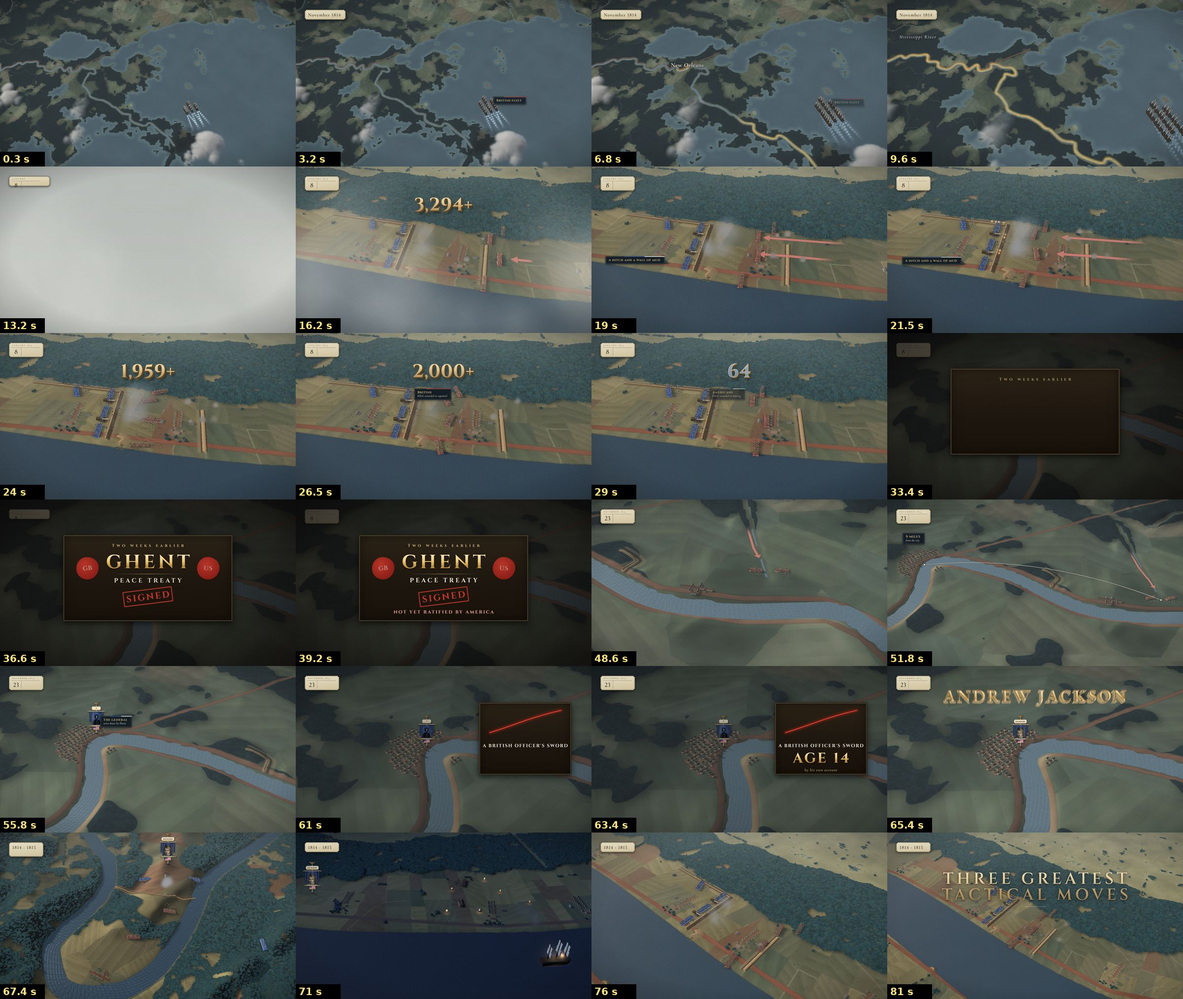
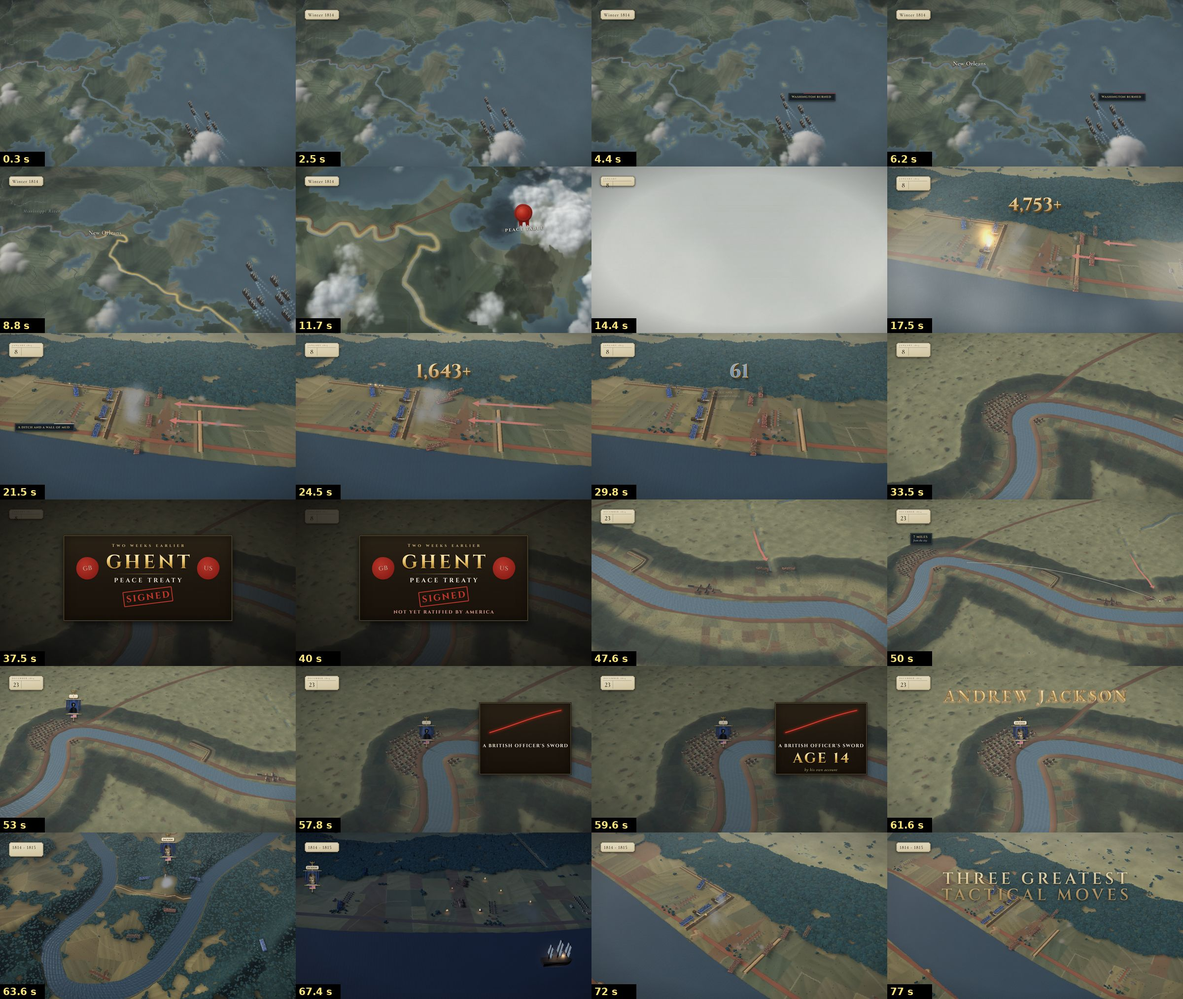
Jackson: S01 re-timed to the new stakes hook, separated fleet
Claude-Session: https://claude.ai/code/session_011uJnjAkjbSabL4aypQkYaz

diff --git a/ajackson/sequences/S01/seq.js b/ajackson/sequences/S01/seq.js
@@ -76,7 +76,7 @@ const units = [];
 // the British lines: in place at the emergence, advance on "five thousand", stop short of the ditch, fall back on "killed"; off screen they
 // close up again (d 4-5) for the third snap cut, where they stand in the smoke and fall back once more
 const RED = [[-0.06, 5.5, 2.0, 2], [0.42, 6.4, 2.4, 2], [0.84, 5.7, 2.0, 2], [1.04, 6.6, 2.7, 2]];   // [s, start d, closest d, boxes]
-const GB_ADV = 17.3, GB_HALT = 21.1, GB_BACK = 28.7, GB_OUT = 32.7;   // round 1: retreatTurn (engine) turns the whole block about in ~7 s before the walk back   // the halt >= 3.3 s (runs closer than 3.2 s merge: no about-face)
+const GB_ADV = 17.9, GB_HALT = 21.3, GB_BACK = 28.7, GB_OUT = 32.7;   // round 1: retreatTurn (engine) turns the whole block about in ~7 s before the walk back   // the halt >= 3.3 s (runs closer than 3.2 s merge: no about-face)
 RED.forEach(([s, d0, d1, n], i) => units.push({ region: CH, side: "r", type: "inf", n, face: FACE + Math.PI, arrive: false,
   keys: [[0, ...off(s, d0)], [GB_ADV + i * 0.25, ...off(s, d0)], [GB_HALT + i * 0.2, ...off(s, d1)], [GB_BACK + i * 0.15, ...off(s, d1)],
          [GB_OUT + i * 0.2, ...off(s, d0 + 0.6)], [SN3 + 0.4 + i * 0.3, ...off(s, d0 + 0.6)], [SN3 + 3.0 + i * 0.3, ...off(s, d1 + 1.4)]] }));   // round 1: halted before the title line (calm shot)
@@ -169,7 +169,7 @@ const CSS = `
 .aj-stamp{position:absolute;left:50%;top:352px;margin-left:-160px;width:320px;font-family:"GM Cinzel",serif;font-weight:700;font-size:58px;letter-spacing:.16em;padding:6px 0 2px .16em;color:#C8382A;
   border:5px solid #C8382A;border-radius:6px;text-shadow:0 0 1px #C8382A;box-shadow:0 0 0 2px rgba(200,56,42,.25)}
 .aj-ghent .nr{position:absolute;left:0;right:0;top:482px;font-family:"GM Cinzel",serif;font-weight:700;font-size:30px;letter-spacing:.2em;padding-left:.2em;color:#E9A090}
-.aj-pseal{left:1330px;top:250px;width:300px;text-align:center}
+.aj-pseal{position:absolute;left:1330px;top:250px;width:300px;text-align:center}
 .aj-pseal .aj-seal{position:relative;display:inline-block;left:auto;right:auto;top:auto;width:104px;height:104px;line-height:104px;font-size:30px}
 .aj-pseal .rb{position:absolute;left:50%;top:84px;width:70px;height:56px;margin-left:-35px;background:linear-gradient(90deg,#7a1610 0 46%,transparent 46% 54%,#7a1610 54%);clip-path:polygon(0 0,46% 0,30% 100%,18% 80%,6% 100%,0 0,54% 0,100% 0,94% 100%,82% 80%,70% 100%,54% 0);z-index:-2}
 .aj-pseal .cap{margin-top:30px;font-family:"GM Cinzel",serif;font-weight:700;font-size:28px;letter-spacing:.2em;color:#EEE7D6;text-shadow:0 2px 6px rgba(0,0,0,.9),0 0 14px rgba(0,0,0,.6)}
@@ -188,7 +188,7 @@ const buildCards = (ctx) => { const { tl } = ctx;
   const mk = (cls, html) => { const e = document.createElement("div"); e.className = cls; e.innerHTML = html; host.appendChild(e); gsap.set(e, { autoAlpha: 0 }); return e; };
   const bk = mk("aj-bk", "");
   // owner fix: "a prize to bargain with at the peace table": a small wax seal + PEACE TABLE (over the closing cloud deck)
-  const ps = mk("aj-pseal", `<div class="rb"></div><div class="aj-seal">GB</div><div class="cap">PEACE TABLE</div>`);
+  const ps = mk("aj-pseal", `<div class="rb"></div><div class="aj-seal"></div><div class="cap">PEACE TABLE</div>`);
   tl.fromTo(ps, { autoAlpha: 0, scale: 1.5, rotation: -10 }, { autoAlpha: 1, scale: 1, rotation: -4, duration: 0.24, ease: "power4.in", immediateRender: false }, T.peace0 - 0.05);
   tl.fromTo(ps, { autoAlpha: 1 }, { autoAlpha: 0, duration: 0.3, immediateRender: false }, SWT - 0.35);
   const gh = mk("aj-card aj-ghent", `<div class="tex"></div><div class="hd">Two weeks earlier</div><div class="aj-seal l">GB</div><div class="aj-seal r">US</div>
@@ -303,7 +303,7 @@ window.SEQ = {
     { text: "New Orleans", at: [CITY[0], CITY[1] - 2.4], size: 24, t0: T.orleans2, t1: T.orleans2 + 3.6, region: NO },
     { text: "Mississippi River", at: [1226, 3226.5], size: 18, t0: T.river2, t1: T.river2 + 3.4, region: NO, river: true },
   ],
-  boats: FLEET(FLEETP, 9, 7, { region: GULF, t0: -1, t1: SWT, size: 5.0, spread: 13, depth: 34, speed: FLV, s0: FLS0 })
+  boats: FLEET(FLEETP, 9, 7, { region: GULF, t0: -1, t1: SWT, size: 5.0, spread: 24, depth: 52, speed: FLV, s0: FLS0 })
     .concat([{ region: CH, kind: "ship", n: 1, size: 0.75, path: CARP, sAt: () => VX.len(CARP) * 0.5, t0: N0, t1: N1, lamp: true, wake: false }]),
   fx, build, draw: (t, ctx) => fog.draw(t, ctx),
   overlay: [

diff --git a/ajackson/sequences/S01/NOTES.md b/ajackson/sequences/S01/NOTES.md
@@ -96,3 +96,18 @@ spoken: shown as small source text); no "Jackson" on screen before the name slam
 - ANDREW JACKSON readable from "Andrew" (tOn + 0.5: fade 64.65-65.15).
 - Open: r9 (British, wood end) shows one 40 deg heading jump at 26.7 s during its about-turn (engine v15 retreatTurn + the on-screen
   heading correction); hard-cut "turn" spikes at 69.9 / 74.2 as before.
+
+## Owner fixes (re-voiced opening, D 79.89 s)
+- Every beat re-timed to the new word times (`scene_times.py S01 --words`): T table replaced; swap 12.8 (push 9.0, emerge 13.3 on
+  "eighth"), Ghent cut 32.34, card out 42.16, name slam 60.92 / 61.40, snap cuts 62.68 / 66.10 / 70.38, title "three" 76.16.
+- New first-shot beats: plate WINTER 1814 on "eighteen fourteen" (1.71); WASHINGTON BURNED tag riding with the fleet on "burned"
+  (3.74); NEW ORLEANS (5.66); the Mississippi glows gold from its mouth up to the city on "mouth" (7.80) and on up the valley from
+  8.76; a small wax seal + PEACE TABLE on "peace" (11.40), over the closing cloud deck.
+- Fleet: 9 separate ships from the S03/S04/S08 helper (copied verbatim): own path per ship (sideways offset 24 u, drifting heading),
+  own speed (+-10 %), leaders and stragglers (lag up to ~80 u); no column.
+- British advance now starts at 17.9 (camera lands 16.15); the halt 21.3 -> about-turn -> walk back 28.7-32.7.
+- Rebuilt on the re-baked gulf / neworleans / horseshoe worlds; scene folder 34.2 MB.
+- check_troops_motion 0-79.89: no overlaps, pops or shape change; front-vs-velocity <= 16 deg; screen error <= 5 deg. Remaining
+  "turn" flags: 8-16 deg per 0.1 s at 15.3-15.4 while the camera is still landing from the dive (on-screen heading correction), and the
+  hard-cut frames 66.1 / 70.4. The r9 40-deg jump of round 1 is gone.
+- Still pale white at ~13.5-14.5 s (the v8 emergence fog, kept as the owner's look).
